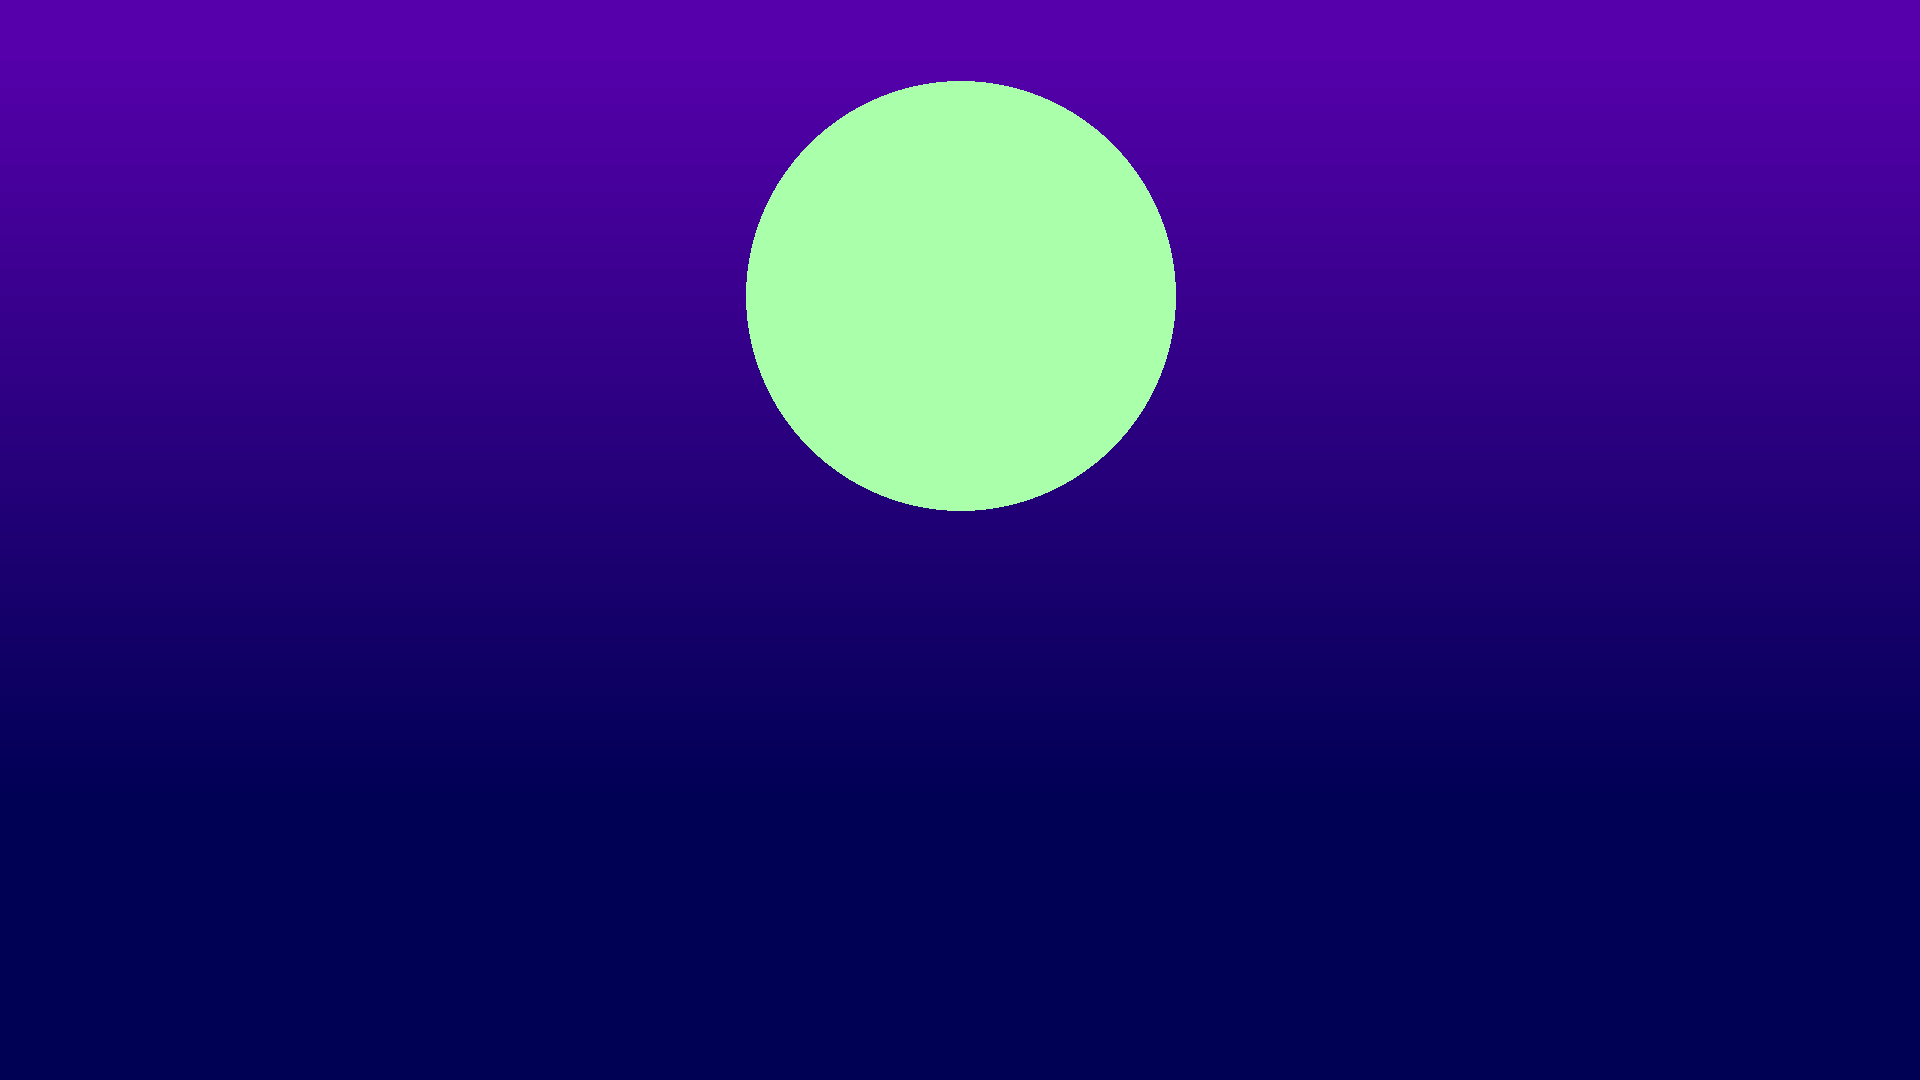
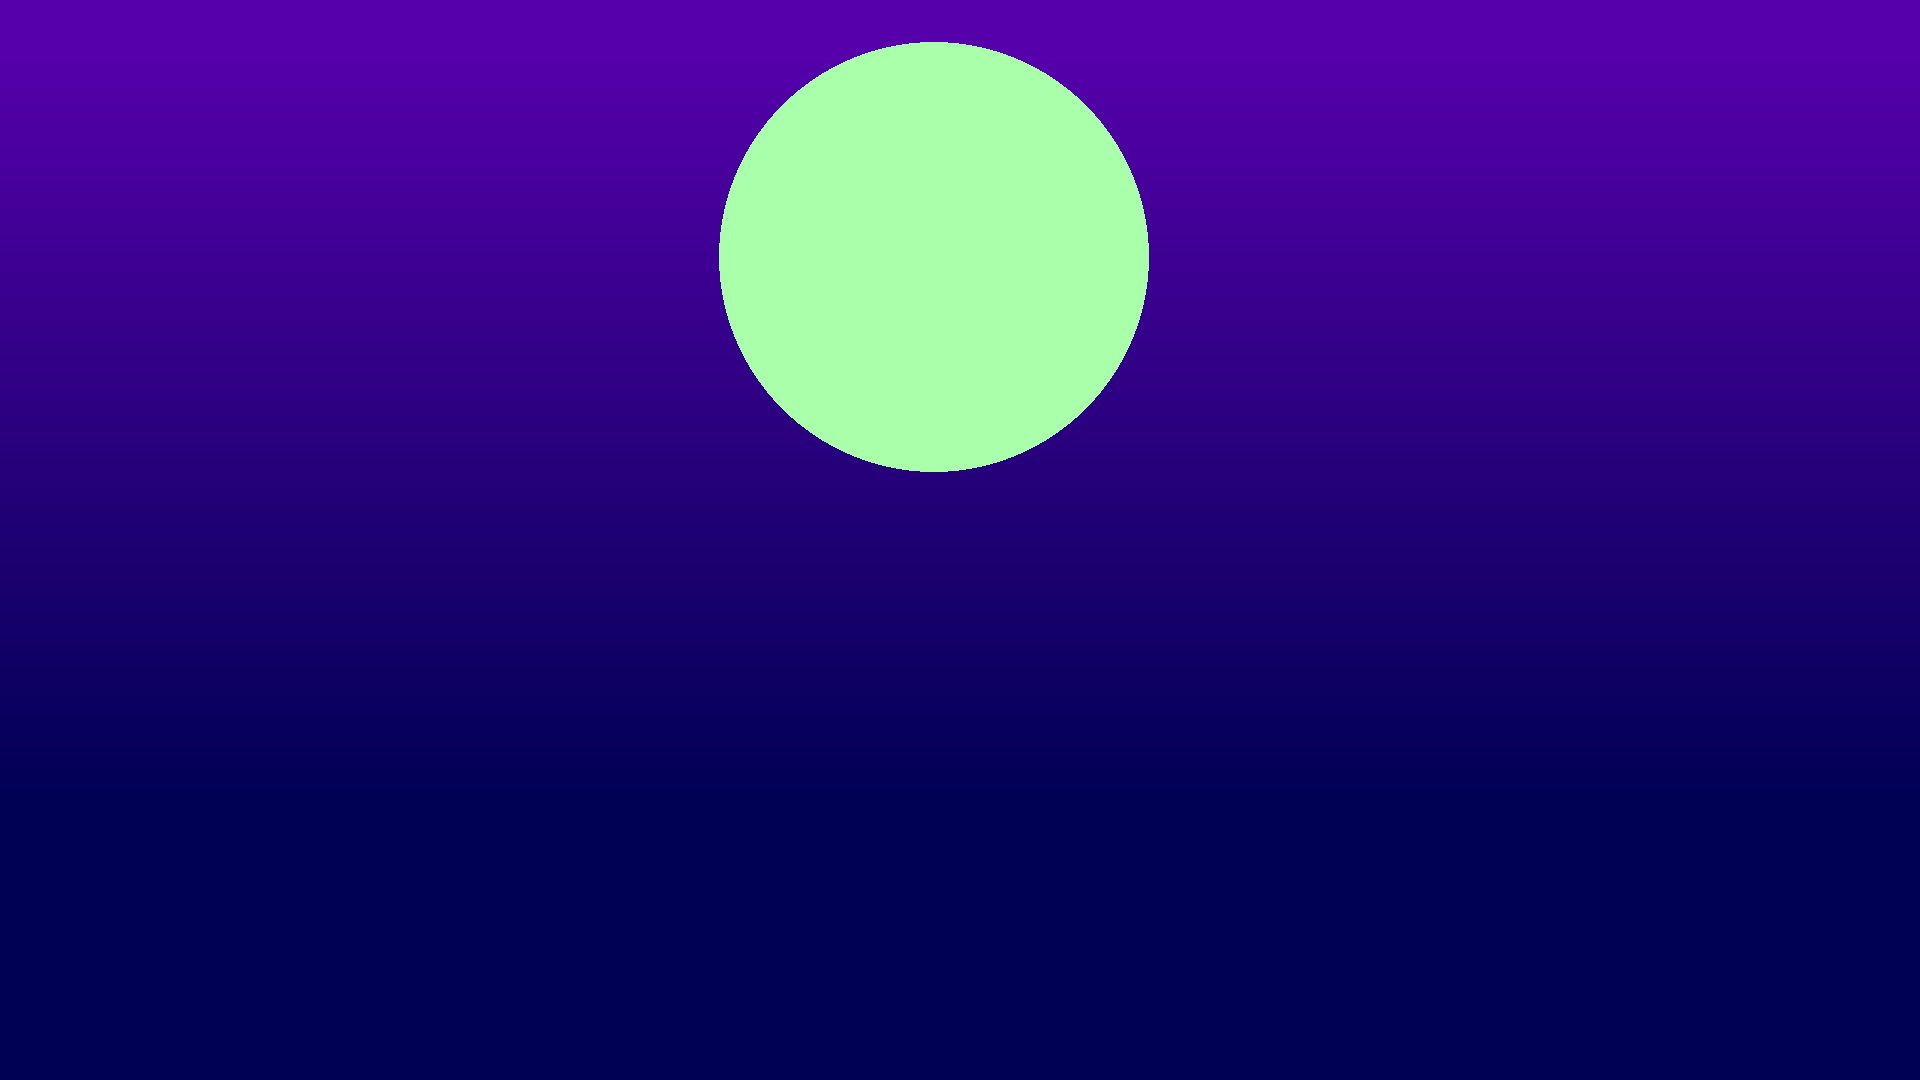
Quartz sync: Jun 16, 2026, 10:38 PM

Changed region(s): [[0.375, 0.0306, 0.5938, 0.3361], [0.4375, 0.1833, 0.625, 0.4889], [0.4062, 0.3972, 0.4375, 0.4278]]

diff --git a/quartz/styles/custom.scss b/quartz/styles/custom.scss
@@ -245,8 +245,8 @@ $img: "logo";
     position: absolute;
     top: 0;
     left: 0;
-    width: 90%;
-    height: 90%;
+    width: 100%;
+    height: 100%;
     background-image: url("file_pile/img/fg0_dark.png");;
     z-index: 0; // Ensures it displays above the canvas
     pointer-events: none; // Allows interaction with the canvas underneath
@@ -257,8 +257,8 @@ $img: "logo";
     position: absolute;
     top: 0;
     left: 0;
-    width: 90%;
-    height: 90%;
+    width: 100%;
+    height: 100%;
     background-image: url("file_pile/img/fg0_dark.gif");
     z-index: 1; // Ensures it displays above the canvas
     pointer-events: none; // Allows interaction with the canvas underneath
